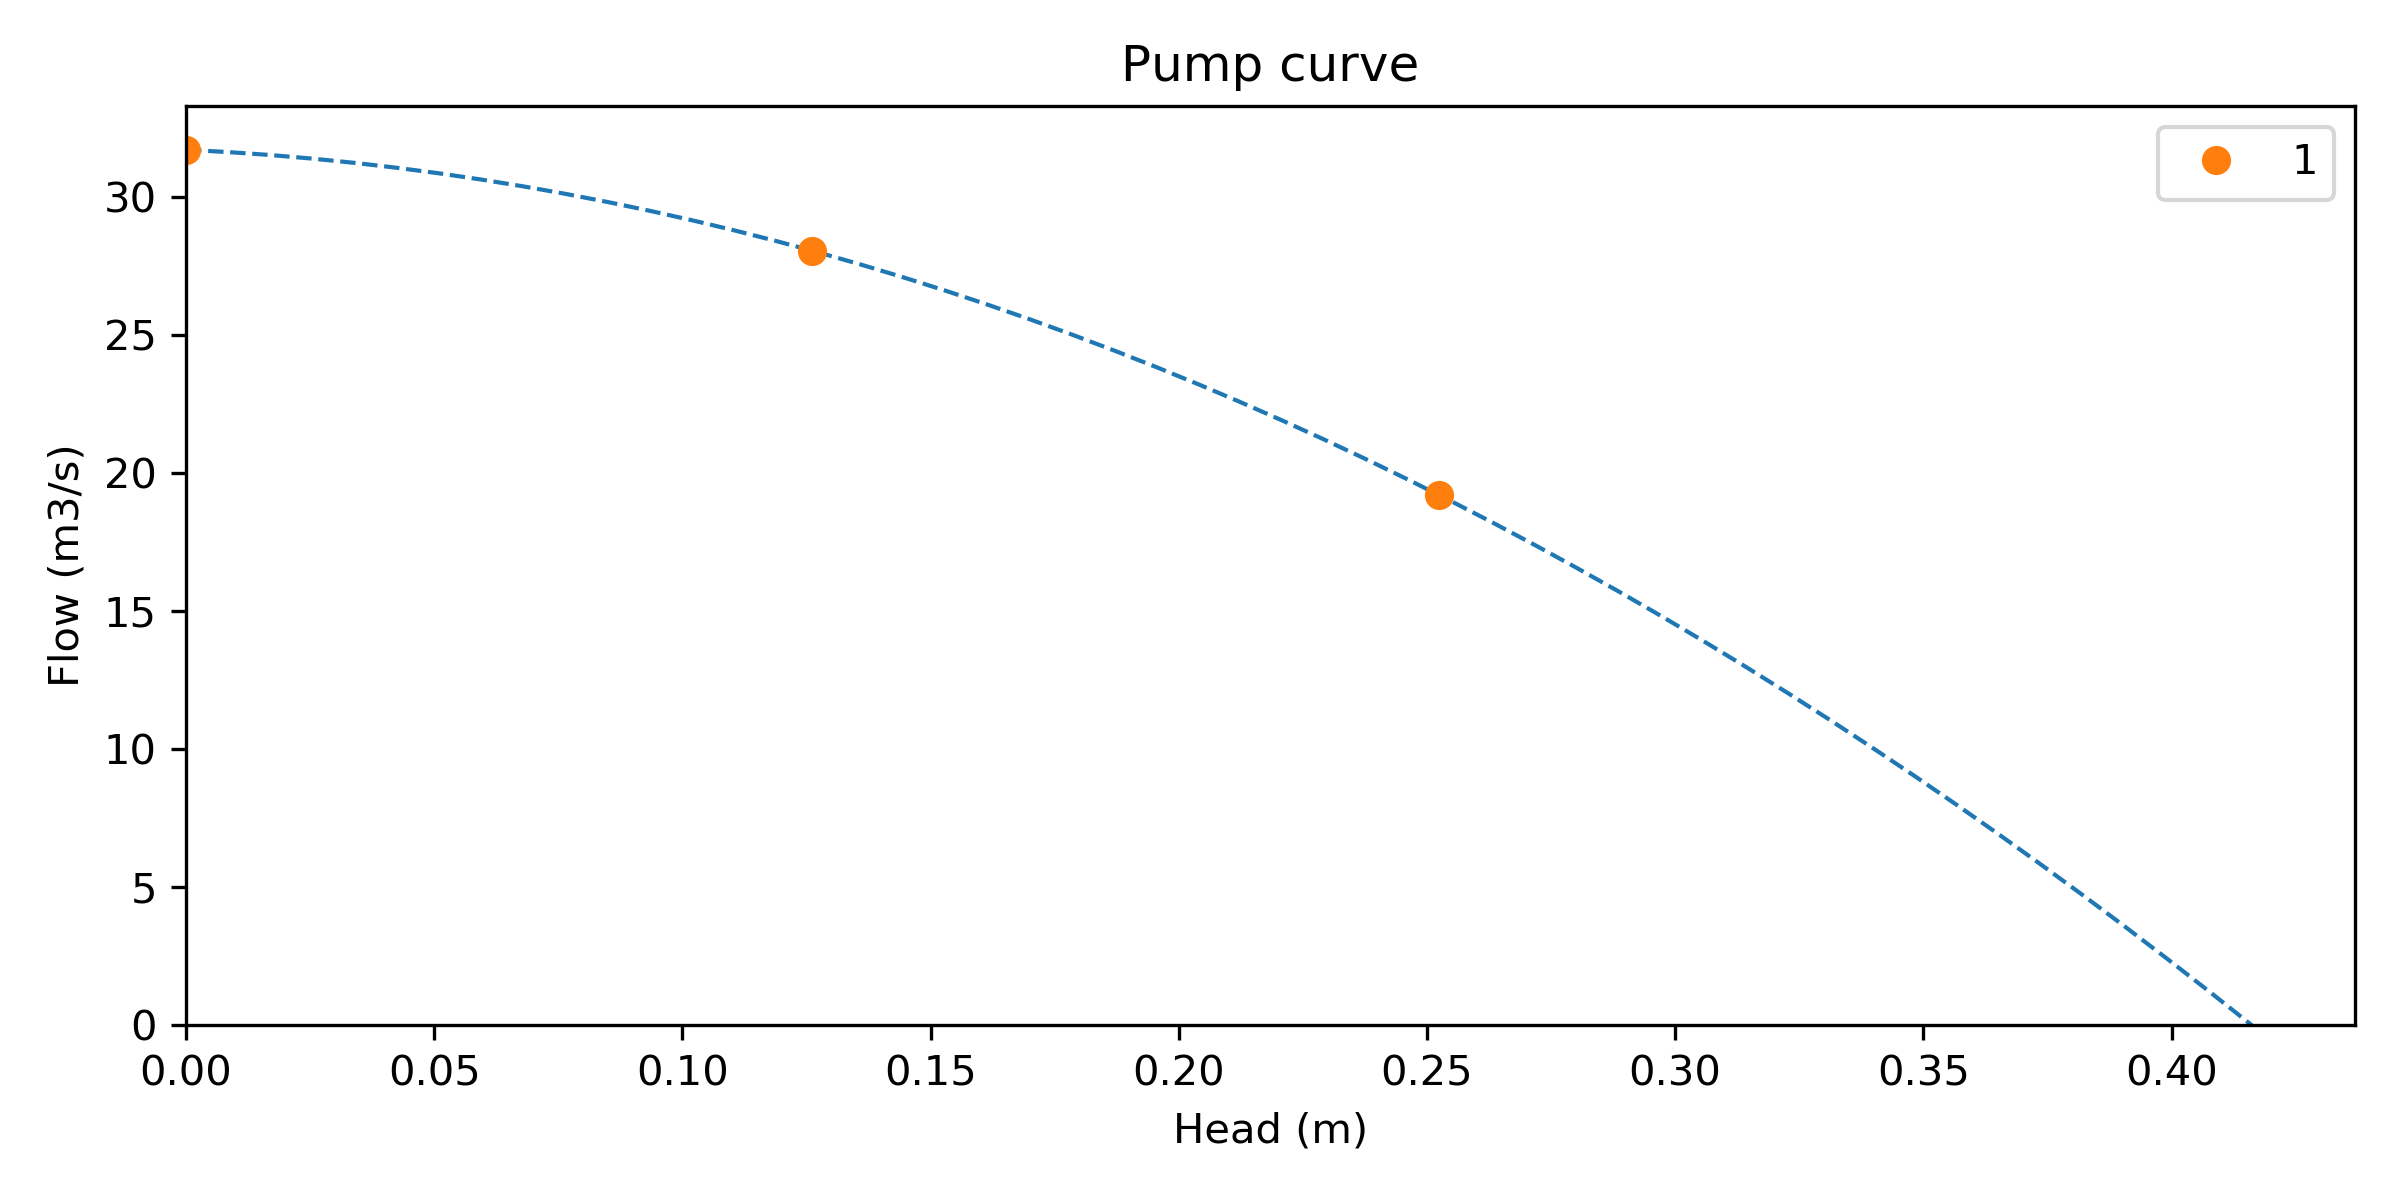
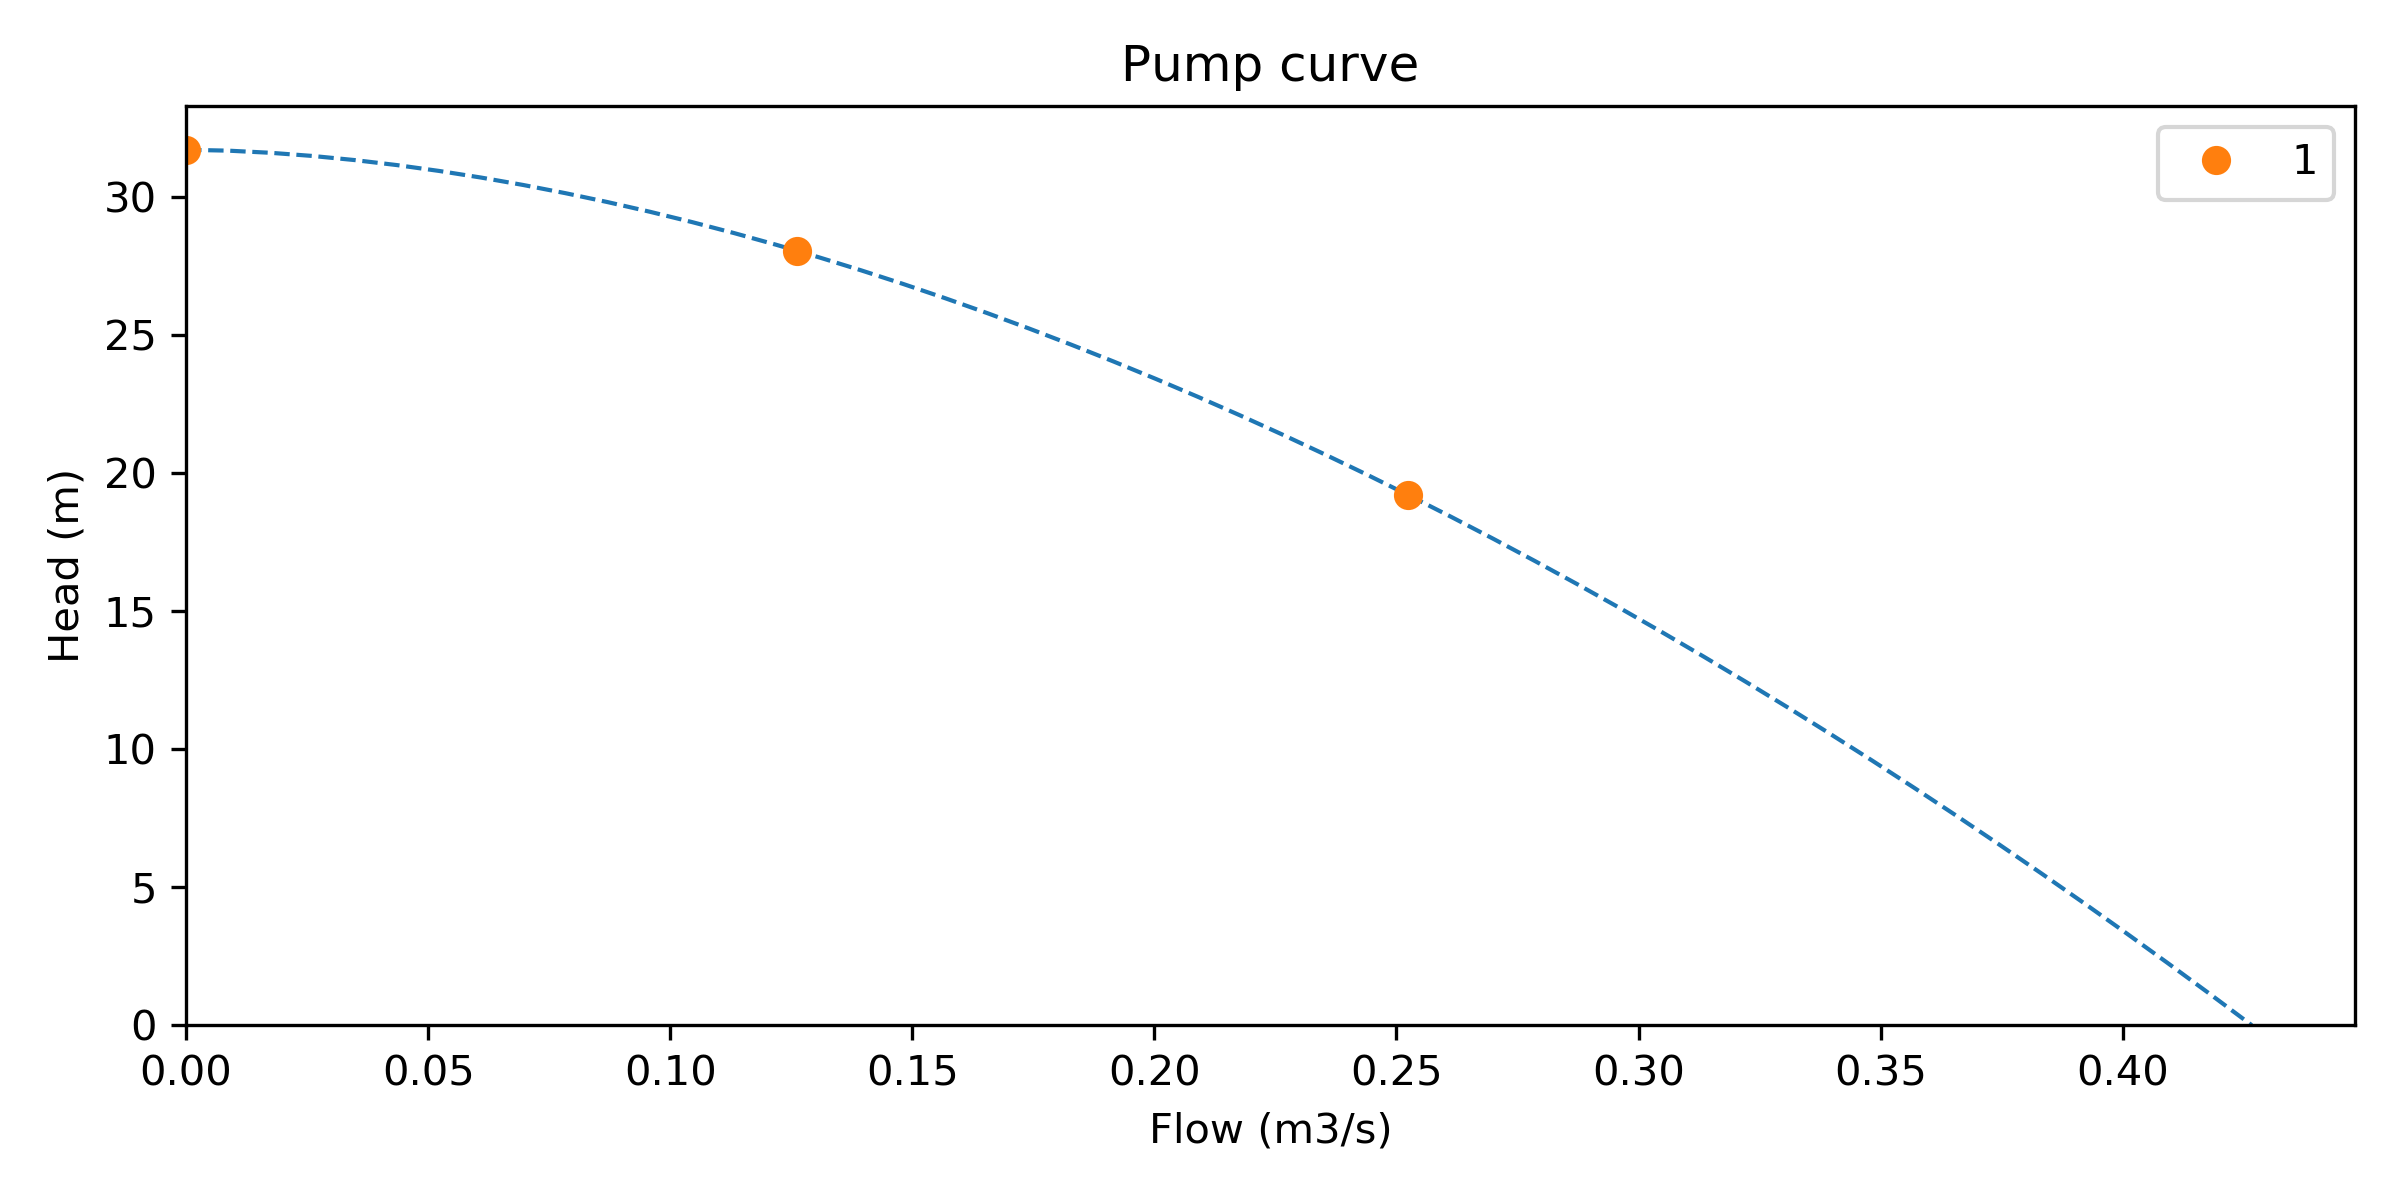
updated pump curve plot to include head curve coefficients

diff --git a/wntr/graphics/curve.py b/wntr/graphics/curve.py
@@ -85,22 +85,20 @@ def plot_fragility_curve(FC, fill=True, key='Default',
     
     return ax
 
-def plot_pump_curve(pump, add_polyfit=True, title='Pump curve', 
+def plot_pump_curve(pump, title='Pump curve', 
                     xmin=0, xmax=None, ymin=0, ymax=None, 
-                    xlabel='Head (m)', 
-                    ylabel='Flow (m3/s)',
+                    xlabel='Flow (m3/s)',
+                    ylabel='Head (m)', 
                     ax=None):
     """
-    Plot pump curve.
+    Plot points in the pump curve along with the pump curve polynomial using 
+    head curve coefficients (H = A - B*Q**C)
     
     Parameters
     -----------
     pump : wntr.network.elements.Pump object
         Pump
         
-    add_polyfit: bool (optional)
-        Add a 2nd order polynomial fit to the points in the curve
-    
     title : string (optional)
         Plot title
 
@@ -117,10 +115,10 @@ def plot_pump_curve(pump, add_polyfit=True, title='Pump curve',
         Y axis maximum (default = None)
     
     xlabel : string (optional)
-        X axis label (default = 'Head (m)')
+        X axis label (default = 'Flow (m3/s)')
     
     ylabel : string (optional)
-        Y axis label (default = 'Flow (m3/s)')
+        Y axis label (default = 'Head (m)')
     
     ax : matplotlib axes object, optional
         Axes for plotting (None indicates that a new figure with a single 
@@ -145,25 +143,27 @@ def plot_pump_curve(pump, add_polyfit=True, title='Pump curve',
         
     ax.set_title(title)
     
-    x = []
-    y = []
+    Q = []
+    H = []
     for pt in curve.points:
-        x.append(pt[0])
-        y.append(pt[1])
+        Q.append(pt[0])
+        H.append(pt[1])
+ 
+    try:
+        coeff = pump.get_head_curve_coefficients()
+        A = coeff[0]
+        B = coeff[1]
+        C = coeff[2]
+        
+        Q_max = (A/B)**(1/C)
+        q = np.linspace(0, Q_max, 50)
+        h = A - B*q**C
+        
+        ax.plot(q, h, '--', linewidth=1)
+    except:
+        pass
     
-    if add_polyfit:
-        z = np.polyfit(x, y, 2)
-        f = np.poly1d(z)
-        fx = np.linspace(0, f.roots[-1], 50)
-        fy = f(fx)
-        ax.plot(fx, fy, '--', linewidth=1)
-    
-    ax.plot(x, y, 'o', label=curve.name)    
-    
-    if xmax is None:
-        xmax = max(fx+fx/20)
-    if ymax is None:
-        ymax = max(fy+fy/20)
+    ax.plot(Q, H, 'o', label=curve.name)    
     
     ax.set_xlim((xmin,xmax))
     ax.set_ylim((ymin,ymax))

diff --git a/documentation/whatsnew/v0.2.2.rst b/documentation/whatsnew/v0.2.2.rst
@@ -3,6 +3,9 @@
 v0.2.2 (master)
 ---------------------------------------------------
 
+* Updated `plot_pump_curve` to include the pump curve polynomial using 
+  head curve coefficients, the optional input argument add_polyfit was removed (API change).
+  Bug fix in x and y labels.
 * Updated `plot_fragility_curve` and `plot_pump_curve` to use an existing 
   matplotlib axes and return a matplotlib axes so users can customize the graphics.  
   The optional input argument figsize was removed (API change).
